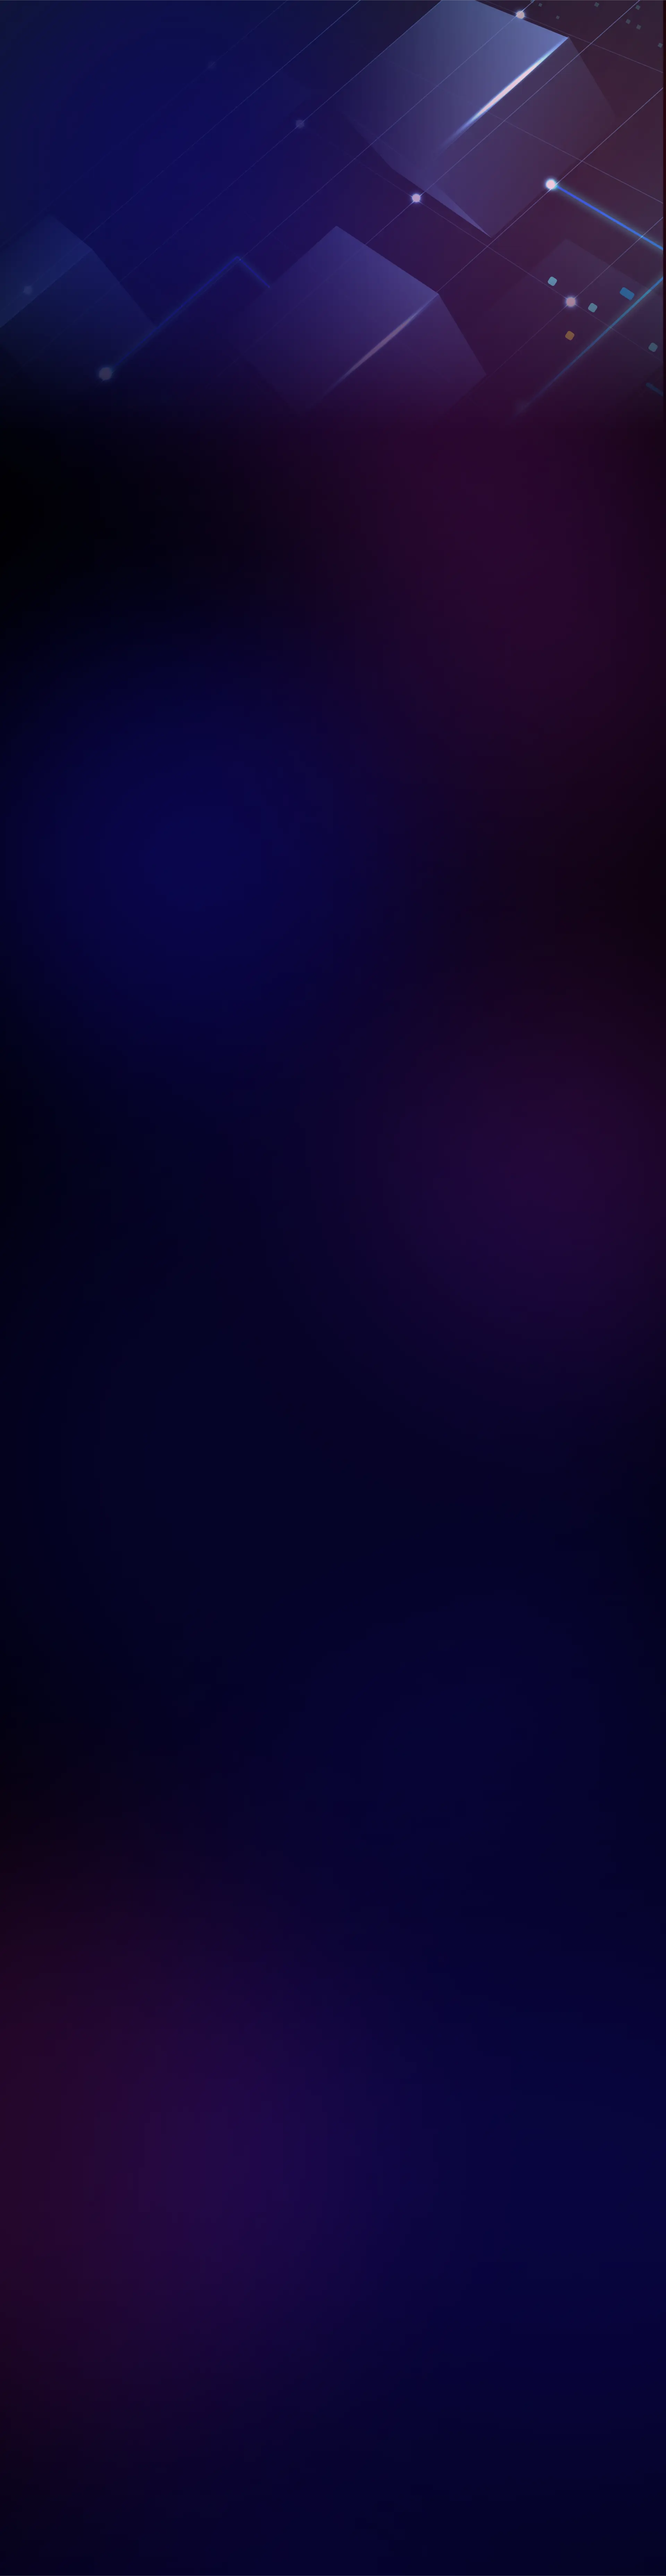
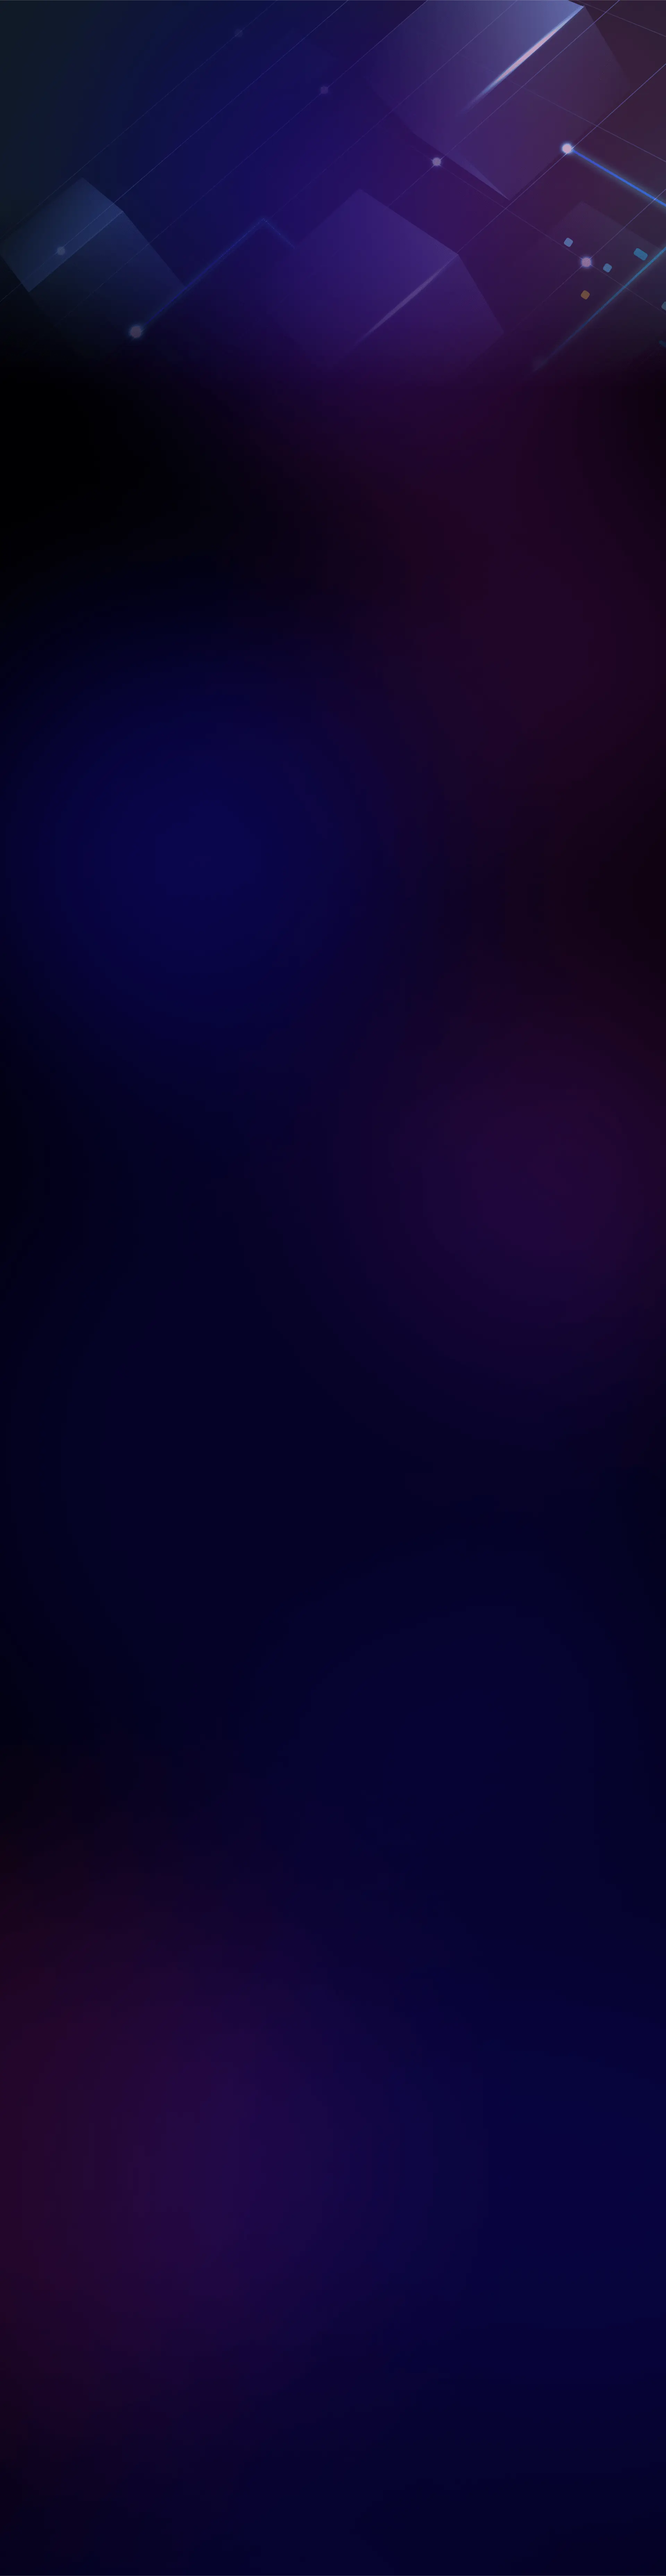
add changes how it works

Changed region(s): [[0.5, 0.0, 1.0, 0.1557], [0.0, 0.0, 0.2812, 0.1869]]

diff --git a/src/pages/Works/Intro.tsx b/src/pages/Works/Intro.tsx
@@ -1,4 +1,3 @@
-import Image from "../../assets/images/spiral.gif";
 
 interface IntroProps {
   portrait: any;
@@ -6,42 +5,24 @@ interface IntroProps {
 
 export default function Intro(props: IntroProps) {
   return (
-    <section className="w-full">
+    <section className="">
       <div
-        className={`relative mx-auto w-full md:pl-24 px-4 py-[60vw] md:py-32 lg:flex ${
+        className={`relative mx-auto max-w-screen-xl md:pl-24 px-4 py-[60vw] lg:mt-10 md:py-32 lg:flex justify-center ${
           props.portrait ? "" : "lg:h-screen"
-        } lg:items-end`}
+        } lg:items-center`}
       >
-        <div className={`${props.portrait ? "mt-48" : ""}`}>
-          <p className="font-Slider text-3xl lg:text-[5vw] leading-[120%] w-[80%] md:w-full">
-            How it Works
+        <div className={`${props.portrait ? "mt-28" : ""}`}>
+          <p className="font-Slider text-3xl lg:text-[5vw] leading-[120%] text-center ">
+          How it Works
           </p>
+
+          <p className="text-sm lg:text-[1.4vw] leading-[150%] lg:pr-10 lg:w-[50vw] m-auto">
+          Lineage is a decentralized middleware that allows developers to deploy dynamic NFTs with a few lines of code. Using Lineage, NFT metadata can now be tracked, evolve, and become interoperable across projects
+          </p>
+          
         </div>
 
-        <div className="">
-          <img
-            alt="Lineage"
-            src={Image}
-            className="mix-blend-screen  w-full lg:w-[55vw] absolute -left-[15%] top-0 lg:top-[4rem] overflow-x-visible opacity-50 "
-            style={{ transform: "rotate(143deg)" }}
-          />
-        </div>
       </div>
     </section>
-    // <div className="w-full h-screen !max-h-screen text-white flex flex-col justify-between relative">
-    //   <div className="text-center w-full lg:relative ">
-    //     <img
-    //       alt="Lineage"
-    //       src={Image}
-    //       className="mix-blend-screen  w-full lg:w-[55vw] absolute -left-[15%] top-0 lg:top-[4rem] overflow-x-visible opacity-50 "
-    //       style={{ transform: "rotate(143deg)" }}
-    //     />
-    //   </div>
-    //   <div className="w-full lg:h-full flex flex-col  justify-end mx-[6vw] gap-5 absolute lg:!relative top-0 h-[70vh] my-[5vw]">
-    //     <p className="font-Slider text-3xl lg:text-[5vw] leading-[120%] w-[80%] md:w-[60%]">
-    //       How it Works
-    //     </p>
-    //   </div>
-    // </div>
   );
 }

diff --git a/src/pages/Works/Sports.tsx b/src/pages/Works/Sports.tsx
@@ -7,7 +7,7 @@ export default function Sports(props:LoyaltyProps) {
   return (
     <div className={`w-full l${props.portrait ? "h-auto" : "lg:h-screen"}  text-white text-center relative  `}>
       <div className="absolute md:-top-[25vw] w-full h-full">
-        <img src={infoBg} alt="infoBg" className="" />
+        <img src={infoBg} alt="infoBg" className="w-full" />
       </div>
       <div className="w-full h-full flex flex-col justify-center gap-1 ">
         <p className="text-3xl md:text-[4.5vw] leading-[150%] font-Slider">

diff --git a/src/index.css b/src/index.css
@@ -23,6 +23,17 @@ body {
   background: #000000;
 }
 
+
+/* Add Max Width 1440 for desktop devices */
+/* section {
+  max-width: 1440px;
+  margin-right: auto;
+  margin-left: auto;
+  padding-right: 16px;
+  padding-left: 16px;
+} */
+/* End Add */
+
 /* Avoid Chrome to see Safari hack */
 @supports (-webkit-touch-callout: none) {
   body {
